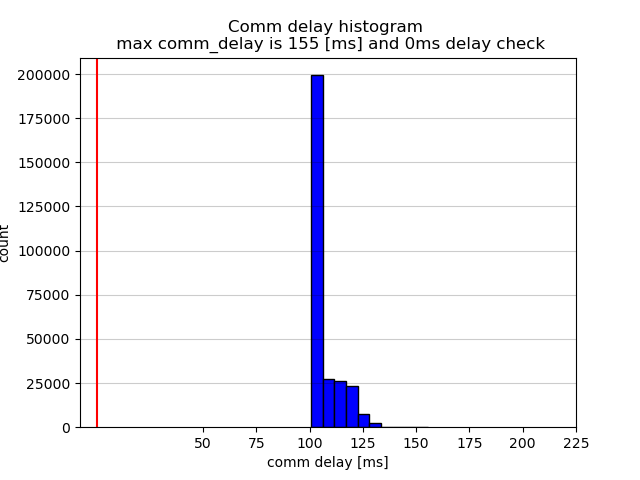
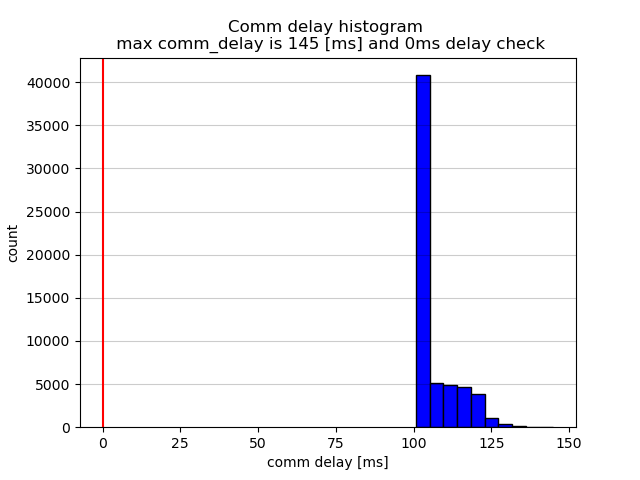
publish trajs

diff --git a/mader/src/mader_ros.cpp b/mader/src/mader_ros.cpp
@@ -164,6 +164,7 @@ MaderRos::MaderRos(ros::NodeHandle nh1, ros::NodeHandle nh2, ros::NodeHandle nh3
   pub_fov_ = nh1_.advertise<visualization_msgs::Marker>("fov", 1);
   pub_obstacles_ = nh1_.advertise<visualization_msgs::Marker>("obstacles", 1);
   pub_traj_ = nh1_.advertise<mader_msgs::DynTraj>("trajs", 1, true);  // The last boolean is latched or not
+  pub_trajs_ = nh1_.advertise<mader_msgs::DynTraj>("list_trajs", 1, true);  // The last boolean is latched or not
   pub_comm_delay_ = nh1_.advertise<mader_msgs::CommDelay>("comm_delay", 1);
   pub_missed_msgs_cnt_ = nh1_.advertise<mader_msgs::MissedMsgsCnt>("missed_msgs_cnt", 1);
 
@@ -519,6 +520,19 @@ void MaderRos::publishOwnTraj(const mt::PieceWisePol& pwp, const bool& is_commit
   pub_traj_.publish(msg);
 }
 
+
+void MaderRos::publishTrajs()
+{
+  std::vector<mt::dynTrajCompiled> trajs = mader_ptr_->getTrajs();
+  mader_msgs::Trajs msg;
+  for (auto &traj : trajs)
+  {
+    msg.id.push_back(traj.id); // id is vehcle identification number
+    msg.time_created.push_back(traj.time_created); // this can be used to identify which traj msg has been received
+  }
+  pub_trajs_.publish(msg);
+}
+
 void MaderRos::replanCB(const ros::TimerEvent& e)
 {
   if (ros::ok() && published_initial_position_ == true && is_mader_running_)
@@ -526,21 +540,21 @@ void MaderRos::replanCB(const ros::TimerEvent& e)
     replanCBTimer_.stop();  // to avoid blockage
 
     // introduce random wait time in the beginning
-    if (!is_replanCB_called_)
-    {
-      // to avoid initial path search congestions add some random sleep here
-      std::random_device rd;
-      std::default_random_engine eng(rd());
-      std::uniform_real_distribution<float> distr(0, 1);  // sleep between 0 and 1 sec
-      ros::Duration(distr(eng)).sleep();
-      is_replanCB_called_ = true;
-    }
+    // if (!is_replanCB_called_)
+    // {
+    //   // to avoid initial path search congestions add some random sleep here
+    //   std::random_device rd;
+    //   std::default_random_engine eng(rd());
+    //   std::uniform_real_distribution<float> distr(0, 1);  // sleep between 0 and 1 sec
+    //   ros::Duration(distr(eng)).sleep();
+    //   is_replanCB_called_ = true;
+    // }
 
     // mtx_mader_ptr_.lock();
     if (mader_ptr_->isGoalSeen())
     {
       std::cout << "goal is reached so no need to replan" << std::endl;
-      is_mader_running_ = false;
+      // is_mader_running_ = false;
       mader_msgs::MissedMsgsCnt msg;
       msg.missed_msgs_cnt = missed_msgs_cnt_;
       msg.msgs_cnt = msgs_cnt_;
@@ -582,6 +596,7 @@ void MaderRos::replanCB(const ros::TimerEvent& e)
 
         // let others know my new trajectory
         publishOwnTraj(pwp_now_, false, headsup_time_);
+        publishTrajs();
 
         // visualization
         if (par_.visual)
@@ -638,6 +653,7 @@ void MaderRos::replanCB(const ros::TimerEvent& e)
             // successful
 
             publishOwnTraj(pwp_now_, true, headsup_time_);
+            publishTrajs();
             pwp_last_ = pwp_now_;
             // std::cout << "Success!" << std::endl;
             if (par_.visual)
@@ -650,6 +666,7 @@ void MaderRos::replanCB(const ros::TimerEvent& e)
               // last_traj_plan_ = traj_plan;
               // last_edges_obstacles_ = edges_obstacles;
             }
+            timer_stop_.Reset();
           }
           else
           {

diff --git a/mader/other/sim/comm_delay_histogram_percentile.py b/mader/other/sim/comm_delay_histogram_percentile.py
@@ -108,7 +108,7 @@ if __name__ == '__main__':
 
             if is_histogram:
                 percentile = scipy.stats.percentileofscore(comm_delay_arr, input_comm_delay, kind='mean')
-                os.system('echo "cd='+str(cd)+', dc='+str(dc)+':   '+str(input_comm_delay) + ' is ' + str(percentile) + '-th percentile" >> '+source_dir+'/comm_delay_percentile.txt')
+                os.system('echo "cd='+str(cd)+', dc='+str(dc)+':   '+str(input_comm_delay) + ' is ' + str(percentile) + '-th percentile" >> /home/kota/data/comm_delay_percentile.txt')
                 # print(comm_delay)
                 max_comm_delay = max(comm_delay)
 

diff --git a/mader/src/mader.cpp b/mader/src/mader.cpp
@@ -980,6 +980,17 @@ bool Mader::initialized()
   return true;
 }
 
+std::vector<mt::dynTrajCompiled> Mader::getTrajs()
+{
+  std::vector<mt::dynTrajCompiled> trajs;
+
+  mtx_trajs_.lock();
+  trajs = trajs_;
+  mtx_trajs_.unlock();
+  return trajs;
+
+}
+
 // check wheter a mt::dynTrajCompiled and a pwp_optimized are in collision in the interval [t_start, t_end]
 bool Mader::trajsAndPwpAreInCollision(mt::dynTrajCompiled traj, mt::PieceWisePol pwp_optimized, double t_start,
                                       double t_end, bool& is_q0_fail)

diff --git a/mader/include/mader_ros.hpp b/mader/include/mader_ros.hpp
@@ -24,6 +24,7 @@
 #include <mader_msgs/DynTraj.h>
 #include <mader_msgs/CommDelay.h>
 #include <mader_msgs/MissedMsgsCnt.h>
+#include <mader_msgs/Trajs.h>
 
 #include "utils.hpp"
 #include "mader.hpp"
@@ -79,6 +80,8 @@ private:
 
   void verify(bool cond, std::string info_if_false);
 
+  void publishTrajs();
+
   bool sim_;
   bool is_delaycheck_ = true;
   double headsup_time_ = 0.0;
@@ -116,6 +119,7 @@ private:
 
   ros::Publisher pub_text_;
   ros::Publisher pub_traj_;
+  ros::Publisher pub_trajs_;
 
   ros::Publisher poly_safe_pub_;
 

diff --git a/mader/scripts/run_many_sims_multi_agent.py b/mader/scripts/run_many_sims_multi_agent.py
@@ -39,7 +39,7 @@ if __name__ == '__main__':
 
     # parameters
     is_oldmader=True
-    num_of_sims=10
+    num_of_sims=1
     num_of_agents=10
     how_long_to_wait = 20 #[s]
     if is_oldmader:

diff --git a/mader/include/mader.hpp b/mader/include/mader.hpp
@@ -76,6 +76,8 @@ public:
   bool isGoalSeen();
   bool isGoalReached();
 
+  std::vector<mt::dynTrajCompiled> getTrajs();
+
 private:
   mt::state M_;
   mt::committedTrajectory plan_;
